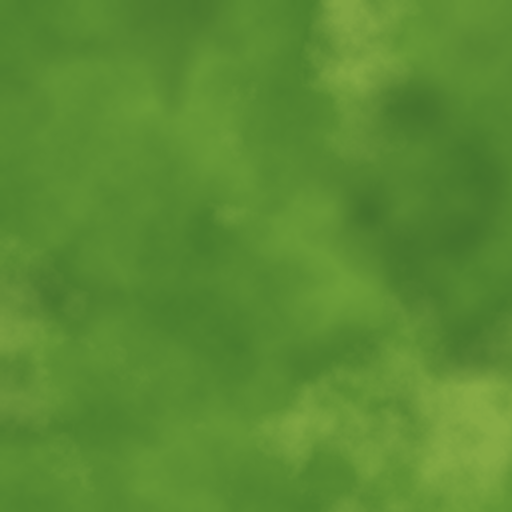
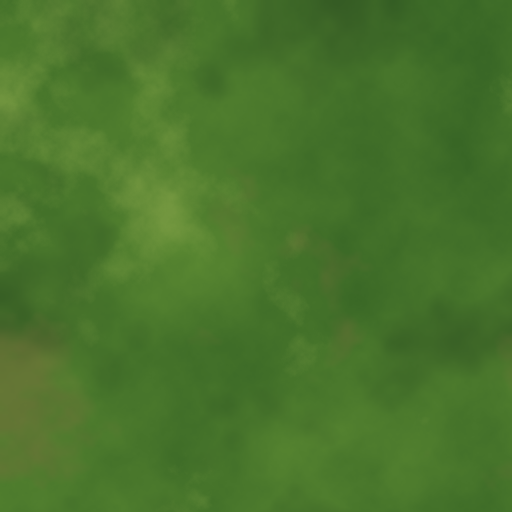
World beauty pass: real 3D food, grass tufts, flowers, clouds, far mountains, palms on fronds, GamePad map, pose cache, dynamic-mesh fix
Claude-Session: https://claude.ai/code/session_01AHpeKa79ECD29RHStwmrRr

diff --git a/src/game/game.c b/src/game/game.c
@@ -23,10 +23,10 @@ static Pad g_prev[KK_PADS];
 static char g_msg[64]; static float g_msg_t; static float g_title_t = 4.0f;
 
 /* textures and meshes */
-static Texture *tx_grass, *tx_dirt, *tx_bark, *tx_leaves, *tx_fern, *tx_berry, *tx_bush, *tx_rock, *tx_water, *tx_mush, *tx_grub, *tx_fish, *tx_spark, *tx_font;
-static Mesh *m_ground, *m_water, *m_bark, *m_leaves, *m_fern, *m_bushes, *m_rock, *m_sky;
-static Mesh *m_dyn;        /* food, sparkles, HUD: refilled per view */
-#define DYN_CAP 24000
+static Texture *tx_grass, *tx_dirt, *tx_bark, *tx_leaves, *tx_fern, *tx_bush, *tx_rock, *tx_water, *tx_spark, *tx_font, *tx_tuft, *tx_flower, *tx_cloud;
+static Mesh *m_ground, *m_water, *m_bark, *m_leaves, *m_fern, *m_bushes, *m_rock, *m_sky, *m_tufts, *m_flowers, *m_clouds, *m_mountains;
+static Mesh *m_dynfood, *m_dynspark, *m_dynhud;   /* refilled per view (each at most twice a frame) */
+#define DYN_CAP 48000
 static Vertex g_dynv[DYN_CAP]; static Batch g_b;
 static uint32_t n_sky;
 
@@ -51,7 +51,7 @@ static void build_ground(void) {
             float rk = clampf((slope - 0.35f) * 4, 0, 1); r = r * (1 - rk) + 0.75f * rk; g = g * (1 - rk) + 0.72f * rk; b = b * (1 - rk) + 0.7f * rk;
             if (world_in_pond(&g_world, x, z)) { r *= 0.8f; g *= 0.85f; b *= 0.8f; }
             c[k][0] = r; c[k][1] = g; c[k][2] = b; }
-        float s = 0.25f; float u0 = i * s, v0 = j * s, u1 = u0 + s, v1 = v0 + s;
+        float s = 0.6f; float u0 = i * s, v0 = j * s, u1 = u0 + s, v1 = v0 + s;
         tv_tri(p[0], p[2], p[1], n[0], n[2], n[1], u0, v0, u0, v1, u1, v0, (c[0][0] + c[2][0] + c[1][0]) / 3, (c[0][1] + c[2][1] + c[1][1]) / 3, (c[0][2] + c[2][2] + c[1][2]) / 3);
         tv_tri(p[1], p[2], p[3], n[1], n[2], n[3], u1, v0, u0, v1, u1, v1, (c[1][0] + c[2][0] + c[3][0]) / 3, (c[1][1] + c[2][1] + c[3][1]) / 3, (c[1][2] + c[2][2] + c[3][2]) / 3); }
     m_ground = tv_mesh();
@@ -101,23 +101,27 @@ static void build_props(void) {
         else if (p->kind == P_PALM) { float h = 9.0f * p->scale; tv_cone(b, v3(p->x + sinf(p->yaw) * 1.5f, y + h, p->z + cosf(p->yaw) * 1.5f), 0.4f * p->scale, 0.25f * p->scale, 7, 2, 0.15f); } }
     m_bark = tv_mesh();
     /* canopies: lumpy leaf balls plus fluff, and the palm crowns */
-    tv_begin(W_MAXPROPS * 260 * 3);
+    tv_begin(W_MAXPROPS * 260 * 3 + W_MAXFOOD * 140 * 3);
     for (int i = 0; i < g_world.nprop; i++) { const Prop *p = &g_world.prop[i]; float y = world_height(&g_world, p->x, p->z);
         if (p->kind == P_TREE) { float h = 7.5f * p->scale; Vec3 c = v3(p->x + sinf(p->yaw) * 0.6f, y + h * 0.95f, p->z + cosf(p->yaw) * 0.6f);
-            float tint = 0.85f + frand01(&s) * 0.3f; tv_ball(c, 3.6f * p->scale, 2.6f * p->scale, 3.6f * p->scale, i * 31 + 5, 0.22f, 2.5f, tint, tint, tint * 0.9f, 0.25f);
-            for (int k = 0; k < 3; k++) { float a = p->yaw + k * 2.1f; Vec3 t = v3(p->x + sinf(a) * 2.2f * p->scale, y + h * 0.95f + 0.4f, p->z + cosf(a) * 2.2f * p->scale); tv_ball(t, 2.0f * p->scale, 1.5f * p->scale, 2.0f * p->scale, i * 31 + k, 0.25f, 1.5f, tint, tint, tint * 0.9f, 0.3f); } }
-        else if (p->kind == P_PALM) { float h = 9.0f * p->scale; Vec3 top = v3(p->x + sinf(p->yaw) * 1.5f, y + h, p->z + cosf(p->yaw) * 1.5f);
+            float tint = 0.85f + frand01(&s) * 0.3f; tv_ball(c, 3.9f * p->scale, 2.9f * p->scale, 3.9f * p->scale, i * 31 + 5, 0.18f, 1.6f, tint, tint, tint * 0.92f, 0.25f);
+            for (int k = 0; k < 3; k++) { float a = p->yaw + k * 2.1f; Vec3 t = v3(p->x + sinf(a) * 2.2f * p->scale, y + h * 0.95f + 0.4f, p->z + cosf(a) * 2.2f * p->scale); tv_ball(t, 2.2f * p->scale, 1.7f * p->scale, 2.2f * p->scale, i * 31 + k, 0.2f, 1.1f, tint, tint, tint * 0.92f, 0.3f); } }
+    }
+    /* the berry bushes: round leafy balls (the berries themselves are drawn live, so they can be eaten) */
+    for (int i = 0; i < g_world.nfood; i++) { const Food *f = &g_world.food[i]; if (f->kind != F_BERRY) continue; tv_ball(v3(f->x, f->y + 0.45f, f->z), 0.8f, 0.6f, 0.8f, i * 13 + 1, 0.2f, 1.0f, 0.95f, 1.0f, 0.9f, 0.15f); }
+    m_leaves = tv_mesh();
+    /* ferns (splayed fronds) and the palm crowns share the frond texture */
+    tv_begin(W_MAXPROPS * 60 + 64);
+    for (int i = 0; i < g_world.nprop; i++) { const Prop *p = &g_world.prop[i]; float y = world_height(&g_world, p->x, p->z);
+        if (p->kind == P_FERN) { for (int k = 0; k < 7; k++) { float a = p->yaw + k * 0.9f; float len = 1.6f * p->scale; Vec3 b = v3(p->x, y - 0.05f, p->z); Vec3 tip = v3(p->x + sinf(a) * len, y + 0.9f * p->scale, p->z + cosf(a) * len); Vec3 ax = v3(cosf(a) * 0.45f * p->scale, 0, -sinf(a) * 0.45f * p->scale); Vec3 n = v3(0, 1.0f, 0), ns = v3(0, 1.3f, 0);
+            tv_tri(v3(b.x - ax.x, b.y, b.z - ax.z), v3(b.x + ax.x, b.y, b.z + ax.z), tip, n, n, ns, 0, 1, 1, 1, 0.5f, 0, 1, 1, 1); tv_tri(v3(b.x + ax.x, b.y, b.z + ax.z), v3(b.x - ax.x, b.y, b.z - ax.z), tip, n, n, ns, 1, 1, 0, 1, 0.5f, 0, 1, 1, 1); } }
+        if (p->kind == P_PALM) { float h = 9.0f * p->scale; Vec3 top = v3(p->x + sinf(p->yaw) * 1.5f, y + h, p->z + cosf(p->yaw) * 1.5f);
             for (int k = 0; k < 7; k++) { float a = p->yaw + k * 0.9f; Vec3 ax = v3(cosf(a) * 1.1f, 0, -sinf(a) * 1.1f); Vec3 tip = v3(top.x + sinf(a) * 4.5f * p->scale, top.y - 1.6f * p->scale, top.z + cosf(a) * 4.5f * p->scale); Vec3 mid = v3(top.x + sinf(a) * 2.2f * p->scale, top.y + 0.6f * p->scale, top.z + cosf(a) * 2.2f * p->scale);
                 Vec3 n = v3(0, 1.0f, 0), ns = v3(0, 1.5f, 0);
                 tv_tri(v3(top.x - ax.x, top.y, top.z - ax.z), v3(top.x + ax.x, top.y, top.z + ax.z), mid, n, n, n, 0, 1, 1, 1, 0.5f, 0.5f, 0.9f, 1, 0.8f);
                 tv_tri(v3(mid.x - ax.x * 0.8f, mid.y, mid.z - ax.z * 0.8f), v3(mid.x + ax.x * 0.8f, mid.y, mid.z + ax.z * 0.8f), tip, n, n, ns, 0, 0.5f, 1, 0.5f, 0.5f, 0, 0.9f, 1, 0.8f);
                 tv_tri(v3(top.x + ax.x, top.y, top.z + ax.z), v3(top.x - ax.x, top.y, top.z - ax.z), mid, n, n, n, 1, 1, 0, 1, 0.5f, 0.5f, 0.9f, 1, 0.8f);
                 tv_tri(v3(mid.x + ax.x * 0.8f, mid.y, mid.z + ax.z * 0.8f), v3(mid.x - ax.x * 0.8f, mid.y, mid.z - ax.z * 0.8f), tip, n, n, ns, 1, 0.5f, 0, 0.5f, 0.5f, 0, 0.9f, 1, 0.8f); } } }
-    m_leaves = tv_mesh();
-    /* ferns and bushes: crossed quads */
-    tv_begin(W_MAXPROPS * 36);
-    for (int i = 0; i < g_world.nprop; i++) { const Prop *p = &g_world.prop[i]; float y = world_height(&g_world, p->x, p->z);
-        if (p->kind == P_FERN) tv_cross(v3(p->x, y - 0.1f, p->z), 2.6f * p->scale, 2.0f * p->scale, p->yaw, 0.25f, 3, 1, 1, 1); }
     m_fern = tv_mesh();
     tv_begin(W_MAXPROPS * 36);
     for (int i = 0; i < g_world.nprop; i++) { const Prop *p = &g_world.prop[i]; float y = world_height(&g_world, p->x, p->z);
@@ -128,6 +132,32 @@ static void build_props(void) {
     for (int i = 0; i < g_world.nprop; i++) { const Prop *p = &g_world.prop[i]; float y = world_height(&g_world, p->x, p->z);
         if (p->kind == P_ROCK) tv_ball(v3(p->x, y - 0.3f * p->scale, p->z), 1.4f * p->scale, 0.9f * p->scale, 1.1f * p->scale, i * 17 + 3, 0.3f, 1.0f, 1, 1, 1, 0); }
     m_rock = tv_mesh();
+    /* grass tufts and flowers: scattered everywhere the ground is not too steep, denser near the start */
+    unsigned ts = 4242; tv_begin(2600 * 12);
+    for (int i = 0; i < 2600; i++) { float x = (frand01(&ts) - 0.5f) * (W_SIZE - 20), z = (frand01(&ts) - 0.5f) * (W_SIZE - 20); if (world_in_pond(&g_world, x, z)) continue; Vec3 n = world_normal(&g_world, x, z); if (n.y < 0.8f) continue;
+        float y = world_height(&g_world, x, z); float sc = 0.7f + frand01(&ts) * 0.8f; float tint = 0.85f + frand01(&ts) * 0.3f; tv_cross(v3(x, y - 0.05f, z), 1.1f * sc, 0.75f * sc, frand01(&ts) * 3.14f, 0.18f, 2, tint, tint, tint); }
+    m_tufts = tv_mesh();
+    tv_begin(700 * 12);
+    for (int i = 0; i < 700; i++) { float x = (frand01(&ts) - 0.5f) * (W_SIZE - 40), z = (frand01(&ts) - 0.5f) * (W_SIZE - 40); if (world_in_pond(&g_world, x, z)) continue; Vec3 n = world_normal(&g_world, x, z); if (n.y < 0.85f) continue;
+        float y = world_height(&g_world, x, z); float sc = 0.6f + frand01(&ts) * 0.5f; tv_cross(v3(x, y - 0.02f, z), 1.2f * sc, 0.7f * sc, frand01(&ts) * 3.14f, 0.1f, 2, 1, 1, 1); }
+    m_flowers = tv_mesh();
+    /* clouds: big soft quads high up, facing down-ish so they read from below and from the air */
+    tv_begin(40 * 12);
+    for (int i = 0; i < 40; i++) { float x = (frand01(&ts) - 0.5f) * 900, z = (frand01(&ts) - 0.5f) * 900, y = 110 + frand01(&ts) * 80, w = 50 + frand01(&ts) * 70, h = w * 0.45f; float a = frand01(&ts) * 3.14f; Vec3 ax = v3(cosf(a) * w / 2, 0, -sinf(a) * w / 2), az = v3(sinf(a) * h / 2, 0, cosf(a) * h / 2); Vec3 nn = v3(0, 1, 0);
+        Vec3 p0 = v3(x - ax.x - az.x, y, z - ax.z - az.z), p1 = v3(x + ax.x - az.x, y, z + ax.z - az.z), p2 = v3(x + ax.x + az.x, y, z + ax.z + az.z), p3 = v3(x - ax.x + az.x, y, z - ax.z + az.z);
+        tv_tri(p0, p1, p2, nn, nn, nn, 0, 1, 1, 1, 1, 0, 1, 1, 1); tv_tri(p0, p2, p3, nn, nn, nn, 0, 1, 1, 0, 0, 0, 1, 1, 1); tv_tri(p0, p2, p1, nn, nn, nn, 0, 1, 1, 0, 1, 1, 1, 1, 1); tv_tri(p0, p3, p2, nn, nn, nn, 0, 1, 0, 0, 1, 0, 1, 1, 1);
+        /* an upright copy so they have some body from the side */
+        Vec3 q0 = v3(x - ax.x, y - h * 0.3f, z - ax.z), q1 = v3(x + ax.x, y - h * 0.3f, z + ax.z), q2 = v3(x + ax.x, y + h * 0.3f, z + ax.z), q3 = v3(x - ax.x, y + h * 0.3f, z - ax.z);
+        tv_tri(q0, q1, q2, nn, nn, nn, 0, 1, 1, 1, 1, 0, 1, 1, 1); tv_tri(q0, q2, q3, nn, nn, nn, 0, 1, 1, 0, 0, 0, 1, 1, 1); tv_tri(q0, q2, q1, nn, nn, nn, 0, 1, 1, 0, 1, 1, 1, 1, 1); tv_tri(q0, q3, q2, nn, nn, nn, 0, 1, 0, 0, 1, 0, 1, 1, 1); }
+    m_clouds = tv_mesh();
+    /* a ring of far mountains, in the fog's colours, so the world never shows an edge */
+    tv_begin(96 * 6); { const int M = 96; float hs[97]; unsigned ms = 99; for (int i = 0; i < M; i++) hs[i] = 60 + frand01(&ms) * 110; hs[M] = hs[0];
+        for (int i = 0; i < M; i++) { float a0 = i * 6.2831853f / M, a1 = (i + 1) * 6.2831853f / M; float R0 = 420 + 40 * sinf(i * 1.3f), R1 = 420 + 40 * sinf((i + 1) * 1.3f);
+            Vec3 b0 = v3(sinf(a0) * R0, -20, cosf(a0) * R0), b1 = v3(sinf(a1) * R1, -20, cosf(a1) * R1), t0 = v3(sinf(a0) * R0, hs[i], cosf(a0) * R0), t1 = v3(sinf(a1) * R1, hs[i + 1], cosf(a1) * R1);
+            float c0 = 0.42f + 0.1f * (hs[i] / 170), c1 = 0.42f + 0.1f * (hs[i + 1] / 170); Vec3 nn = v3(0, 1, 0);
+            tv_tri(b0, t0, b1, nn, nn, nn, 0, 0, 0, 0, 0, 0, c0, c0 + 0.1f, c0 + 0.2f); tmpv[tmpn - 3].r = 0.5f; tmpv[tmpn - 3].g = 0.62f; tmpv[tmpn - 3].b = 0.78f; tmpv[tmpn - 1].r = 0.5f; tmpv[tmpn - 1].g = 0.62f; tmpv[tmpn - 1].b = 0.78f;
+            tv_tri(b1, t0, t1, nn, nn, nn, 0, 0, 0, 0, 0, 0, c1, c1 + 0.1f, c1 + 0.2f); tmpv[tmpn - 3].r = 0.5f; tmpv[tmpn - 3].g = 0.62f; tmpv[tmpn - 3].b = 0.78f; } }
+    m_mountains = tv_mesh();
     /* sky dome: unlit, coloured by height */
     tv_begin(16 * 24 * 6);
     for (int i = 0; i < 8; i++) for (int j = 0; j < 24; j++) {
@@ -146,12 +176,12 @@ int game_init(int gfx_status) {
     dragon_init(&g_dragon, &g_world, 0, 0);
     if (gfx_status != GFX_OK) return 0;
     tx_grass = asset_texture("grass", 1, NULL, NULL); tx_dirt = asset_texture("dirt", 1, NULL, NULL); tx_bark = asset_texture("bark", 1, NULL, NULL);
-    tx_leaves = asset_texture("leaves", 1, NULL, NULL); tx_fern = asset_texture("fern", 0, NULL, NULL); tx_berry = asset_texture("berrybush", 0, NULL, NULL); tx_bush = asset_texture("bush", 0, NULL, NULL);
-    tx_rock = asset_texture("rock", 1, NULL, NULL); tx_water = asset_texture("water", 1, NULL, NULL); tx_mush = asset_texture("mushroom", 0, NULL, NULL);
-    tx_grub = asset_texture("grub", 0, NULL, NULL); tx_fish = asset_texture("fish", 0, NULL, NULL); tx_spark = asset_texture("sparkle", 0, NULL, NULL);
+    tx_leaves = asset_texture("leaves", 1, NULL, NULL); tx_fern = asset_texture("fern", 0, NULL, NULL); tx_bush = asset_texture("bush", 0, NULL, NULL);
+    tx_rock = asset_texture("rock", 1, NULL, NULL); tx_water = asset_texture("water", 1, NULL, NULL); tx_spark = asset_texture("sparkle", 0, NULL, NULL);
+    tx_tuft = asset_texture("grasstuft", 0, NULL, NULL); tx_flower = asset_texture("flowers", 0, NULL, NULL); tx_cloud = asset_texture("cloud", 0, NULL, NULL);
     tx_font = asset_texture("font_hd", 0, NULL, NULL); if (tx_font) g_font_hd = 1;
     build_ground(); build_props();
-    batch_init(&g_b, g_dynv, DYN_CAP); m_dyn = gfx_mesh_dynamic(DYN_CAP);
+    batch_init(&g_b, g_dynv, DYN_CAP); m_dynfood = gfx_mesh_dynamic(DYN_CAP); m_dynspark = gfx_mesh_dynamic(2000); m_dynhud = gfx_mesh_dynamic(36000);
     static const char *names[ST_N] = {"forest_dragonet", "forest_dragon", "forest_beyonder"};
     for (int s = 0; s < ST_N; s++) g_model_ok[s] = anim3d_load(&g_model[s], names[s]);
     gfx_log("Dragons Beyond ready: %d props, %d food, models %d %d %d", g_world.nprop, g_world.nfood, g_model_ok[0], g_model_ok[1], g_model_ok[2]);
@@ -188,23 +218,38 @@ static void camera_update(float dt) {
 
 /* ---------- drawing ---------- */
 static Vec3 sun_dir(void) { return v3_norm(v3(0.45f, 0.8f, 0.35f)); }
-static void draw_food_kind(Vec3 eye, int kind, Texture *t) {
+/* small solid shapes for the food, lit by their normals, flat-coloured (they use the white block in the font texture) */
+static void bq_push(Vec3 p, Vec3 n, float r, float g, float b) { if (g_b.n < g_b.cap) { Vertex q = {p.x, p.y, p.z, n.x, n.y, n.z, WHITE_U, WHITE_V, r, g, b, 1}; g_b.v[g_b.n++] = q; } }
+static void batch_ball(Vec3 c, float rx, float ry, float rz, int la, int lo, float r, float g, float b, float ybias) {
+    for (int i = 0; i < la; i++) for (int j = 0; j < lo; j++) {
+        float t0 = 3.14159265f * i / la, t1 = 3.14159265f * (i + 1) / la, p0 = 6.2831853f * j / lo, p1 = 6.2831853f * (j + 1) / lo;
+        Vec3 n00 = v3(sinf(t0) * sinf(p0), cosf(t0), sinf(t0) * cosf(p0)), n01 = v3(sinf(t0) * sinf(p1), cosf(t0), sinf(t0) * cosf(p1)), n10 = v3(sinf(t1) * sinf(p0), cosf(t1), sinf(t1) * cosf(p0)), n11 = v3(sinf(t1) * sinf(p1), cosf(t1), sinf(t1) * cosf(p1));
+        Vec3 q00 = v3(c.x + n00.x * rx, c.y + n00.y * ry * (n00.y > 0 ? 1 : ybias), c.z + n00.z * rz), q01 = v3(c.x + n01.x * rx, c.y + n01.y * ry * (n01.y > 0 ? 1 : ybias), c.z + n01.z * rz);
+        Vec3 q10 = v3(c.x + n10.x * rx, c.y + n10.y * ry * (n10.y > 0 ? 1 : ybias), c.z + n10.z * rz), q11 = v3(c.x + n11.x * rx, c.y + n11.y * ry * (n11.y > 0 ? 1 : ybias), c.z + n11.z * rz);
+        if (i > 0) { bq_push(q00, n00, r, g, b); bq_push(q10, n10, r, g, b); bq_push(q01, n01, r, g, b); }
+        if (i < la - 1) { bq_push(q01, n01, r, g, b); bq_push(q10, n10, r, g, b); bq_push(q11, n11, r, g, b); } } }
+static void batch_cyl(Vec3 base, Vec3 top, float r0, float r1, int seg, float r, float g, float b) {
+    for (int i = 0; i < seg; i++) { float a0 = i * 6.2831853f / seg, a1 = (i + 1) * 6.2831853f / seg; Vec3 n0 = v3(sinf(a0), 0, cosf(a0)), n1 = v3(sinf(a1), 0, cosf(a1));
+        Vec3 b0 = v3(base.x + n0.x * r0, base.y, base.z + n0.z * r0), b1 = v3(base.x + n1.x * r0, base.y, base.z + n1.z * r0), t0 = v3(top.x + n0.x * r1, top.y, top.z + n0.z * r1), t1 = v3(top.x + n1.x * r1, top.y, top.z + n1.z * r1);
+        bq_push(b0, n0, r, g, b); bq_push(t0, n0, r, g, b); bq_push(b1, n1, r, g, b); bq_push(b1, n1, r, g, b); bq_push(t0, n0, r, g, b); bq_push(t1, n1, r, g, b); } }
+static void draw_food3d(Vec3 eye) {
     batch_clear(&g_b);
-    for (int i = 0; i < g_world.nfood; i++) { const Food *f = &g_world.food[i]; if (f->kind != kind) continue;
-        float dx = f->x - eye.x, dz = f->z - eye.z; if (dx * dx + dz * dz > 150 * 150) continue;
-        float ang = atan2f(dx, dz); Vec3 ax = v3(cosf(ang), 0, -sinf(ang)); Vec3 n = v3(0, 1, 0);
-        if (kind == F_BERRY) { if (!f->alive && f->regrow > 20) continue; float s = 1.3f; batch_quad(&g_b, v3(f->x, f->y + s * 0.5f - 0.08f, f->z), v3(ax.x * s * 0.6f, 0, ax.z * s * 0.6f), v3(0, s * 0.5f, 0), n, 0, 0, 1, 1, 1, 1, 1, 1); }
-        else if (kind == F_MUSHROOM) { if (!f->alive) continue; float s = 0.7f; batch_quad(&g_b, v3(f->x, f->y + s * 0.5f, f->z), v3(ax.x * s * 0.5f, 0, ax.z * s * 0.5f), v3(0, s * 0.5f, 0), n, 0, 0, 1, 1, 1, 1, 1, 1); }
-        else if (kind == F_GRUB) { if (!f->alive) continue; float s = 0.6f; Vec3 fw = v3(sinf(f->yaw), 0, cosf(f->yaw)), rt = v3(cosf(f->yaw), 0, -sinf(f->yaw)); float wig = sinf(f->phase * 12) * 0.06f;
-            batch_quad(&g_b, v3(f->x, f->y + 0.1f, f->z), v3(rt.x * s * 0.35f + fw.x * wig, 0, rt.z * s * 0.35f + fw.z * wig), v3(fw.x * s * 0.5f, 0.03f, fw.z * s * 0.5f), n, 0, 0, 1, 1, 1, 1, 1, 1); }
-        else { if (!f->alive) continue; float s = 0.9f; Vec3 fw = v3(sinf(f->yaw), 0, cosf(f->yaw)); batch_quad(&g_b, v3(f->x, f->y, f->z), v3(fw.x * s * 0.5f, 0, fw.z * s * 0.5f), v3(0, s * 0.3f, 0), n, 0, 0, 1, 1, 1, 1, 1, 0.9f); } }
-    if (!g_b.n) return; gfx_mesh_update(m_dyn, g_b.v, g_b.n); Mat4 id = m4_identity(); gfx_bind(t); gfx_state(ST_CUTOUT); gfx_draw_ex(m_dyn, &id, 1, 1, 1, 1, 0.05f, 0, 0, 0); }
-static void draw_berry_bushes_eaten(Vec3 eye) {   /* the green bush stays when the berries are gone */
-    batch_clear(&g_b); Vec3 n = v3(0, 1, 0);
-    for (int i = 0; i < g_world.nfood; i++) { const Food *f = &g_world.food[i]; if (f->kind != F_BERRY || f->alive) continue;
-        float dx = f->x - eye.x, dz = f->z - eye.z; if (dx * dx + dz * dz > 150 * 150) continue; float ang = atan2f(dx, dz); Vec3 ax = v3(cosf(ang), 0, -sinf(ang)); float s = 1.3f;
-        batch_quad(&g_b, v3(f->x, f->y + s * 0.5f - 0.08f, f->z), v3(ax.x * s * 0.6f, 0, ax.z * s * 0.6f), v3(0, s * 0.5f, 0), n, 0, 0, 1, 1, 1, 1, 1, 1); }
-    if (!g_b.n) return; gfx_mesh_update(m_dyn, g_b.v, g_b.n); Mat4 id = m4_identity(); gfx_bind(tx_bush); gfx_state(ST_CUTOUT); gfx_draw_ex(m_dyn, &id, 1, 1, 1, 1, 0.05f, 0, 0, 0); }
+    for (int i = 0; i < g_world.nfood; i++) { const Food *f = &g_world.food[i]; if (!f->alive) continue;
+        float dx = f->x - eye.x, dz = f->z - eye.z; float d2 = dx * dx + dz * dz; if (d2 > 120 * 120) continue; int lod = d2 > 35 * 35;
+        if (f->kind == F_BERRY) {   /* red berries sitting on the (static) bush */
+            unsigned s = (unsigned)i * 97 + 13; for (int k = 0; k < 6; k++) { float a = frand01(&s) * 6.28f, el = 0.3f + frand01(&s) * 1.1f, rr = 0.72f; Vec3 c = v3(f->x + cosf(el) * sinf(a) * rr, f->y + 0.55f + sinf(el) * 0.6f, f->z + cosf(el) * cosf(a) * rr);
+                batch_ball(c, 0.1f, 0.1f, 0.1f, lod ? 2 : 3, lod ? 4 : 5, 0.9f, 0.12f, 0.2f, 1); } }
+        else if (f->kind == F_MUSHROOM) { float h = 0.42f + 0.05f * sinf(f->phase); batch_cyl(v3(f->x, f->y - 0.05f, f->z), v3(f->x, f->y + h, f->z), 0.09f, 0.08f, 6, 0.93f, 0.88f, 0.75f);
+            batch_ball(v3(f->x, f->y + h, f->z), 0.32f, 0.2f, 0.32f, 3, lod ? 6 : 8, 0.85f, 0.2f, 0.18f, 0.25f);
+            if (!lod) { unsigned s = (unsigned)i * 31; for (int k = 0; k < 4; k++) { float a = frand01(&s) * 6.28f, rr = 0.1f + frand01(&s) * 0.15f; batch_ball(v3(f->x + sinf(a) * rr, f->y + h + 0.2f * sqrtf(fmaxf(0, 1 - (rr / 0.32f) * (rr / 0.32f))) , f->z + cosf(a) * rr), 0.045f, 0.03f, 0.045f, 2, 4, 1, 0.98f, 0.9f, 1); } } }
+        else if (f->kind == F_GRUB) { Vec3 fw = v3(sinf(f->yaw), 0, cosf(f->yaw)); float wig = sinf(f->phase * 10) * 0.05f; Vec3 rt = v3(fw.z, 0, -fw.x);
+            for (int k = 0; k < 3; k++) { float o = 0.14f - k * 0.14f; float w = sinf(f->phase * 10 + k * 1.5f) * 0.04f; batch_ball(v3(f->x + fw.x * o + rt.x * (wig + w), f->y + 0.11f, f->z + fw.z * o + rt.z * (wig + w)), 0.13f, 0.11f, 0.15f, 3, lod ? 5 : 6, 0.9f, 0.78f, 0.45f, 1); }
+            batch_ball(v3(f->x + fw.x * 0.3f + rt.x * wig, f->y + 0.12f, f->z + fw.z * 0.3f + rt.z * wig), 0.1f, 0.1f, 0.1f, 3, 5, 0.45f, 0.28f, 0.15f, 1); }
+        else { Vec3 fw = v3(sinf(f->yaw), 0, cosf(f->yaw)); Vec3 rt = v3(fw.z, 0, -fw.x); float sw = sinf(f->phase * 6) * 0.08f;
+            batch_ball(v3(f->x, f->y, f->z), 0.1f, 0.14f, 0.1f, 3, 6, 0.4f, 0.6f, 0.9f, 1); batch_ball(v3(f->x + fw.x * 0.18f, f->y, f->z + fw.z * 0.18f), 0.08f, 0.1f, 0.08f, 2, 5, 0.4f, 0.6f, 0.9f, 1); batch_ball(v3(f->x - fw.x * 0.2f + rt.x * sw, f->y, f->z - fw.z * 0.2f + rt.z * sw), 0.06f, 0.1f, 0.06f, 2, 4, 0.3f, 0.5f, 0.8f, 1);
+            Vec3 t0 = v3(f->x - fw.x * 0.26f + rt.x * sw, f->y, f->z - fw.z * 0.26f + rt.z * sw), t1 = v3(f->x - fw.x * 0.42f + rt.x * sw * 2, f->y + 0.12f, f->z - fw.z * 0.42f + rt.z * sw * 2), t2 = v3(f->x - fw.x * 0.42f + rt.x * sw * 2, f->y - 0.12f, f->z - fw.z * 0.42f + rt.z * sw * 2);
+            bq_push(t0, rt, 0.3f, 0.5f, 0.8f); bq_push(t1, rt, 0.3f, 0.5f, 0.8f); bq_push(t2, rt, 0.3f, 0.5f, 0.8f); bq_push(t0, v3(-rt.x, 0, -rt.z), 0.3f, 0.5f, 0.8f); bq_push(t2, v3(-rt.x, 0, -rt.z), 0.3f, 0.5f, 0.8f); bq_push(t1, v3(-rt.x, 0, -rt.z), 0.3f, 0.5f, 0.8f); } }
+    if (!g_b.n) return; gfx_mesh_update(m_dynfood, g_b.v, g_b.n); Mat4 id = m4_identity(); gfx_bind(tx_font); gfx_state(ST_SOLID); gfx_draw_ex(m_dynfood, &id, 1, 1, 1, 1, 0.3f, 0, 0, 0); }
 
 static void draw_dragon(const Dragon *d) {
     int st = d->stage; float sc = dragon_scale(st);
@@ -214,7 +259,7 @@ static void draw_dragon(const Dragon *d) {
     Mat4 base = dragon_matrix(d, sc); int clip = anim3d_clip(m, dragon_anim_name(d->anim)); if (clip < 0) clip = 0;
     gfx_state(ST_SOLID);
     float glow = d->evolve_t > 0 ? 0.5f + 0.5f * sinf(g_time * 20) : 0;
-    anim3d_draw(m, clip, d->anim_t, &base, 1 + glow, 1 + glow, 1 + 0.6f * glow, 1); gfx_bind(NULL); }
+    anim3d_draw(m, clip, d->anim_t, &base, 1.12f + glow, 1.12f + glow, 1.1f + 0.6f * glow, 1); gfx_bind(NULL); }
 
 static void draw_sparkles(const Dragon *d, Vec3 eye) {
     if (d->evolve_t <= 0) return; batch_clear(&g_b); unsigned s = 9; float L = dragon_length(d->stage); float t = 2.0f - d->evolve_t;
@@ -223,17 +268,18 @@ static void draw_sparkles(const Dragon *d, Vec3 eye) {
         float rise = fmodf(t * (0.8f + frand01(&s)) + ph, 2.0f); float sz = 0.08f * L * (1 - rise / 2) + 0.05f;
         Vec3 c = v3(d->x + cosf(a + t) * r, d->y + h + rise * L * 0.6f, d->z + sinf(a + t) * r);
         batch_quad(&g_b, c, v3(right.x * sz, 0, right.z * sz), v3(up.x * sz, up.y * sz, up.z * sz), v3(0, 1, 0), 0, 0, 1, 1, 1, 1, 0.7f, 1 - rise / 2); }
-    gfx_mesh_update(m_dyn, g_b.v, g_b.n); Mat4 id = m4_identity(); gfx_bind(tx_spark); gfx_state(ST_DEPTH | ST_BLEND | ST_ADD); gfx_draw_ex(m_dyn, &id, 1, 1, 1, 1, 0, 1, 0, 0); }
+    gfx_mesh_update(m_dynspark, g_b.v, g_b.n); Mat4 id = m4_identity(); gfx_bind(tx_spark); gfx_state(ST_DEPTH | ST_BLEND | ST_ADD); gfx_draw_ex(m_dynspark, &id, 1, 1, 1, 1, 0, 1, 0, 0); }
 
 static void draw_scene(int drc) {
     float aspect = gfx_aspect(drc); Vec3 eye = g_eye, at = g_at;
     Mat4 proj = m4_perspective(g_cam_mode == 2 ? 1.25f : 1.05f, aspect, 0.2f, 1500.0f), view = m4_look_at(eye, at, v3(0, 1, 0)); Mat4 vp = m4_mul(proj, view);
     Vec3 L = sun_dir();
     gfx_light(v3(1.0f, 0.96f, 0.85f), v3(0.55f, 0.65f, 0.8f), v3(0.35f, 0.4f, 0.2f), eye);
-    gfx_shadow_use(1); gfx_camera(&vp, L, 0.42f, 0.78f, 0.86f, 0.95f, 90, 420); gfx_shadow_use(0);
+    gfx_shadow_use(1); gfx_camera(&vp, L, 0.45f, 0.74f, 0.82f, 0.92f, 120, 480); gfx_shadow_use(0);
     Mat4 id = m4_identity();
     /* sky, around the camera, no depth */
     Mat4 skym = m4_translate(eye.x, eye.y - 60, eye.z); gfx_state(0); gfx_bind(NULL); gfx_draw_ex(m_sky, &skym, 1, 1, 1, 1, 0, 1, 0, 0);
+    if (m_mountains) gfx_draw_ex(m_mountains, &id, 1, 1, 1, 1, 0, 1, 0, 0);
     gfx_clear_depth(drc);
     gfx_state(ST_SOLID);
     gfx_bind(tx_grass); gfx_bump(2); gfx_draw(m_ground, &id, 1, 1, 1, 1); gfx_bump(0);
@@ -243,16 +289,18 @@ static void draw_scene(int drc) {
     gfx_bind(tx_leaves); if (m_leaves) gfx_draw(m_leaves, &id, 1, 1, 1, 1);
     gfx_bind(tx_fern); if (m_fern) gfx_draw(m_fern, &id, 1, 1, 1, 1);
     gfx_bind(tx_bush); if (m_bushes) gfx_draw(m_bushes, &id, 1, 1, 1, 1);
-    draw_food_kind(eye, F_BERRY, tx_berry); draw_berry_bushes_eaten(eye); draw_food_kind(eye, F_MUSHROOM, tx_mush); draw_food_kind(eye, F_GRUB, tx_grub);
+    gfx_bind(tx_tuft); if (m_tufts) gfx_draw(m_tufts, &id, 1, 1, 1, 1);
+    gfx_bind(tx_flower); if (m_flowers) gfx_draw(m_flowers, &id, 1, 1, 1, 1);
+    draw_food3d(eye);
     if (g_cam_mode != 2) draw_dragon(&g_dragon);
     gfx_state(ST_TRANSPARENT); gfx_bind(tx_water); gfx_draw_ex(m_water, &id, 1, 1, 1, 0.8f, 0.9f, 0, g_time * 0.02f, g_time * 0.013f);
-    draw_food_kind(eye, F_FISH, tx_fish);
     draw_sparkles(&g_dragon, eye);
+    { Mat4 cm = m4_translate(fmodf(g_time * 1.5f, 900.0f) - 450.0f, 0, 0); gfx_state(ST_DEPTH | ST_BLEND); gfx_bind(tx_cloud); if (m_clouds) { gfx_draw_ex(m_clouds, &cm, 1, 1, 1, 0.9f, 0, 1, 0, 0); Mat4 cm2 = m4_translate(cm.m[12] + 900.0f, 0, 0); gfx_draw_ex(m_clouds, &cm2, 1, 1, 1, 0.9f, 0, 1, 0, 0); } }
     gfx_bind(NULL); }
 
 static void shadow_pass(void) {
     const Dragon *d = &g_dragon; Vec3 L = sun_dir();
-    Vec3 c = v3(d->x + sinf(g_cam_yaw) * 15, d->y, d->z + cosf(g_cam_yaw) * 15); const float half = 55.0f, dep = 260.0f;
+    Vec3 c = v3(d->x + sinf(g_cam_yaw) * 25, d->y, d->z + cosf(g_cam_yaw) * 25); const float half = 85.0f, dep = 300.0f;
     c.x = floorf(c.x / (2 * half / 1024)) * (2 * half / 1024); c.z = floorf(c.z / (2 * half / 1024)) * (2 * half / 1024);
     Mat4 view = m4_look_at(v3(c.x + L.x * dep * 0.5f, c.y + L.y * dep * 0.5f, c.z + L.z * dep * 0.5f), c, v3(0, 1, 0));
     Mat4 proj = m4_identity(); proj.m[0] = 1.0f / half; proj.m[5] = 1.0f / half; proj.m[10] = -2.0f / dep; proj.m[14] = -1.0f;
@@ -281,9 +329,9 @@ static void draw_hud(int drc) {
     if (near >= 0 && d->mode != DM_AIR && d->act_t <= 0) text_c(food_is_meat(g_world.food[near].kind) ? "X : EAT (MEAT, GROWS FAST)" : "X : EAT", 600, 30, 1, 1, 0.7f, 0.9f);
     if (g_msg_t > 0) text_c(g_msg, 640, 28, 1, 1, 1, clampf(g_msg_t, 0, 1));
     if (g_title_t > 0) { float a = clampf(g_title_t, 0, 1); text_c("DRAGONS BEYOND", 250, 72, 0.6f, 1, 0.5f, a); text_c("EVERLEAF WILDS", 330, 40, 0.9f, 1, 0.9f, a); }
-    static const char *cams[3] = {"RIDER VIEW", "OVERHEAD VIEW", "DRAGON'S EYES"}; batch_text(&g_b, cams[g_cam_mode], 1000, 36, 20, 1, 1, 1, 0.6f);
+    static const char *cams[3] = {"RIDER VIEW", "OVERHEAD VIEW", "DRAGON EYES"}; batch_text(&g_b, cams[g_cam_mode], 1240 - text_width(cams[g_cam_mode], 20), 36, 20, 1, 1, 1, 0.6f);
     batch_text(&g_b, "D-PAD UP : VIEW   A : JUMP/FLY   ZR : RUN   B : TAIL   Y : ROAR", 300, 690, 18, 1, 1, 1, 0.5f);
-    if (!g_b.n) return; gfx_camera_2d(); gfx_state(ST_HUD); gfx_bind(tx_font); gfx_mesh_update(m_dyn, g_b.v, g_b.n); Mat4 id = m4_identity(); gfx_draw_ex(m_dyn, &id, 1, 1, 1, 1, 0, 1, 0, 0); gfx_bind(NULL); (void)drc; }
+    if (!g_b.n) return; gfx_camera_2d(); gfx_state(ST_HUD); gfx_bind(tx_font); gfx_mesh_update(m_dynhud, g_b.v, g_b.n); Mat4 id = m4_identity(); gfx_draw_ex(m_dynhud, &id, 1, 1, 1, 1, 0, 1, 0, 0); gfx_bind(NULL); (void)drc; }
 
 
 #ifdef DB_TOUR
@@ -303,6 +351,42 @@ static void tour_input(Pad *p, float t) {
     if (fmodf(t, 30.0f) < 0.05f && t > 25 && d->mode != DM_AIR) p->y = 1;   /* a roar now and then */
 }
 #endif
+
+
+/* ---------- the GamePad: a map of Everleaf Wilds ---------- */
+static void map_tri2d(float x0, float y0, float x1, float y1, float x2, float y2, float r, float g, float b, float a) {
+    if (g_b.n + 3 > g_b.cap) return; Vec3 p0 = scr(x0, y0), p1 = scr(x1, y1), p2 = scr(x2, y2);
+    Vertex q0 = {p0.x, p0.y, 0, 0, 0, 1, WHITE_U, WHITE_V, r, g, b, a}, q1 = {p1.x, p1.y, 0, 0, 0, 1, WHITE_U, WHITE_V, r, g, b, a}, q2 = {p2.x, p2.y, 0, 0, 0, 1, WHITE_U, WHITE_V, r, g, b, a};
+    g_b.v[g_b.n++] = q0; g_b.v[g_b.n++] = q1; g_b.v[g_b.n++] = q2; }
+static void map_disc(float cx, float cy, float rad, int seg, float r, float g, float b, float a) { for (int i = 0; i < seg; i++) { float a0 = i * 6.2831853f / seg, a1 = (i + 1) * 6.2831853f / seg; map_tri2d(cx, cy, cx + cosf(a1) * rad, cy + sinf(a1) * rad, cx + cosf(a0) * rad, cy + sinf(a0) * rad, r, g, b, a); } }
+static void draw_map(void) {
+    const Dragon *d = &g_dragon; const float S = 2.6f, CX = 640, CY = 360;   /* pixels per metre; world x -> right, world z -> up the screen */
+#define MX(x) (CX + (x) * S)
+#define MY(z) (CY - (z) * S)
+    batch_clear(&g_b);
+    batch_rect(&g_b, 0, 0, 1280, 720, 0.08f, 0.14f, 0.08f, 1);
+    batch_rect(&g_b, MX(-W_SIZE / 2), MY(W_SIZE / 2), W_SIZE * S, W_SIZE * S, 0.3f, 0.55f, 0.25f, 1);
+    /* hills: darker where the ground is high */
+    for (int j = 0; j < W_GRID - 1; j += 2) for (int i = 0; i < W_GRID - 1; i += 2) { float h = g_world.h[j][i]; if (h < 6) continue; float t = clampf((h - 6) / 20.0f, 0, 1); float x = -W_SIZE / 2 + W_SIZE * i / (W_GRID - 1), z = -W_SIZE / 2 + W_SIZE * j / (W_GRID - 1); batch_rect(&g_b, MX(x), MY(z) - 2 * S, 2 * S * W_SIZE / (W_GRID - 1) / 2.5f + 1, 2 * S * W_SIZE / (W_GRID - 1) / 2.5f + 1, 0.3f + 0.3f * t, 0.45f + 0.1f * t, 0.2f + 0.1f * t, 0.9f); }
+    map_disc(MX(g_world.pond_x), MY(g_world.pond_z), g_world.pond_r * 1.25f * S, 24, 0.25f, 0.55f, 0.85f, 1);
+    for (int i = 0; i < g_world.nprop; i++) { const Prop *p = &g_world.prop[i]; float r = p->kind == P_TREE || p->kind == P_PALM ? 4.5f : 2.5f; float cr = p->kind == P_ROCK ? 0.5f : 0.12f, cg = p->kind == P_ROCK ? 0.5f : 0.35f, cb = p->kind == P_ROCK ? 0.48f : 0.1f; map_disc(MX(p->x), MY(p->z), r, 6, cr, cg, cb, 1); }
+    for (int i = 0; i < g_world.nfood; i++) { const Food *f = &g_world.food[i]; if (!f->alive) continue; float cr = 1, cg = 1, cb = 1;
+        if (f->kind == F_BERRY) { cr = 0.95f; cg = 0.15f; cb = 0.25f; } else if (f->kind == F_MUSHROOM) { cr = 1; cg = 0.95f; cb = 0.8f; } else if (f->kind == F_GRUB) { cr = 1; cg = 0.85f; cb = 0.3f; } else { cr = 0.5f; cg = 0.8f; cb = 1; }
+        map_disc(MX(f->x), MY(f->z), 3, 6, cr, cg, cb, 1); }
+    /* the dragon: a bright arrow pointing where it faces, with a pulse ring */
+    float ax = MX(d->x), ay = MY(d->z), sy = sinf(d->yaw), cy = cosf(d->yaw); float pulse = 10 + 4 * sinf(g_time * 4);
+    map_disc(ax, ay, pulse, 16, 0.7f, 1, 0.5f, 0.35f);
+    map_tri2d(ax + sy * 14, ay - cy * 14, ax - cy * 8 - sy * 8, ay - sy * 8 + cy * 8, ax + cy * 8 - sy * 8, ay + sy * 8 + cy * 8, 0.85f, 1, 0.6f, 1);
+    /* words */
+    batch_text(&g_b, "EVERLEAF WILDS", 40, 30, 34, 0.9f, 1, 0.8f, 1);
+    char line[64]; snprintf(line, sizeof line, "%s", dragon_stage_name(d->stage)); batch_text(&g_b, line, 40, 80, 26, 1, 1, 1, 0.9f);
+    float need = dragon_need(d->stage); if (need < 1e8f) { snprintf(line, sizeof line, "GROW %d/%d", (int)d->growth, (int)need); batch_text(&g_b, line, 40, 112, 22, 0.8f, 1, 0.7f, 0.9f); }
+    batch_text(&g_b, "RED: BERRIES  WHITE: MUSHROOMS", 40, 640, 18, 1, 1, 1, 0.7f); batch_text(&g_b, "YELLOW: GRUBS  BLUE: FISH (MEAT GROWS FAST)", 40, 668, 18, 1, 1, 1, 0.7f);
+    batch_text(&g_b, "D-PAD UP: CHANGE VIEW", 900, 668, 18, 1, 1, 1, 0.7f);
+    gfx_camera_2d(); gfx_state(ST_HUD); gfx_bind(tx_font); gfx_mesh_update(m_dynhud, g_b.v, g_b.n); Mat4 id = m4_identity(); gfx_draw_ex(m_dynhud, &id, 1, 1, 1, 1, 0, 1, 0, 0); gfx_bind(NULL);
+#undef MX
+#undef MY
+}
 
 /* ---------- the frame ---------- */
 void game_frame(const Pad *pads, int npads, float dt) {
@@ -328,9 +412,6 @@ void game_frame(const Pad *pads, int npads, float dt) {
     music_update(2);
     gfx_frame_begin();
     shadow_pass();
-    for (int drc = 0; drc < 2; drc++) {
-        gfx_view_begin(drc, 0.55f, 0.75f, 0.95f);
-        draw_scene(drc);
-        draw_hud(drc);
-        gfx_view_end(drc); }
+    gfx_view_begin(0, 0.55f, 0.75f, 0.95f); draw_scene(0); draw_hud(0); gfx_view_end(0);   /* the TV: the game */
+    gfx_view_begin(1, 0.08f, 0.14f, 0.08f); draw_map(); gfx_view_end(1);                   /* the GamePad: the map */
     gfx_frame_end(); }

diff --git a/tools/make_textures.py b/tools/make_textures.py
@@ -89,3 +89,45 @@ save('sparkle', np.dstack([np.full((128, 128), 255), np.full((128, 128), 250), n
 # icon 128x128
 ic = Image.open(os.path.join(os.path.dirname(__file__), '..', 'concept', 'forest_dragonet_side.png')).convert('RGB').resize((128, 128), Image.LANCZOS)
 ic.save(os.path.join(OUT, '..', 'icon.png')); print('icon')
+
+# ---- second pass: richer grass, grass tufts, flowers, clouds, calmer leaves
+N = 512
+g1 = noise(N, 7, 21); g2 = noise(N, 4, 22); g3 = noise(N, 8, 23)
+g = mix((46, 92, 34), (96, 142, 52), g1); g = mix(g, (128, 160, 70), np.clip((g3 - 0.58) * 5, 0, 1) * 0.7); g = mix(g, (36, 70, 30), np.clip((0.42 - g2) * 3, 0, 1) * 0.6)
+g = mix(g, (120, 110, 60), np.clip((noise(N, 5, 24) - 0.66) * 6, 0, 1) * 0.5)   # a few dry patches
+save('grass', np.dstack([g, np.full((N, N), 255)]))
+# grass tuft (cutout): a fan of blades from the bottom centre
+im = Image.new('RGBA', (N, N), (0, 0, 0, 0)); dr = ImageDraw.Draw(im); r2 = np.random.default_rng(5)
+for _ in range(70):
+    x0 = N / 2 + (r2.random() - 0.5) * 120; h = 180 + r2.random() * 280; bend = (r2.random() - 0.5) * 260; w = 10 + r2.random() * 14
+    col = (int(60 + r2.random() * 60), int(130 + r2.random() * 90), int(40 + r2.random() * 40), 255)
+    pts = [(x0 - w / 2, N), (x0 + w / 2, N), (x0 + bend * 0.5 + 2, N - h * 0.6), (x0 + bend, N - h), (x0 + bend * 0.5 - 2, N - h * 0.6)]
+    dr.polygon(pts, fill=col)
+save('grasstuft', np.asarray(im).astype(float))
+# flowers (cutout): small clusters of 5-petal flowers in a few colours, on thin stems
+im = Image.new('RGBA', (N, N), (0, 0, 0, 0)); dr = ImageDraw.Draw(im); r2 = np.random.default_rng(6)
+cols = [(255, 230, 80), (255, 120, 150), (250, 250, 250), (170, 130, 255), (255, 150, 60)]
+for _ in range(16):
+    cx = N / 2 + (r2.random() - 0.5) * 300; cy = N * 0.25 + r2.random() * N * 0.35; rad = 18 + r2.random() * 14; col = cols[int(r2.random() * len(cols))]
+    dr.line((cx, N, cx, cy), fill=(70, 120, 50, 255), width=5)
+    for k in range(5):
+        a = k * 2 * np.pi / 5 + r2.random() * 0.3; dr.ellipse((cx + np.cos(a) * rad - rad * 0.6, cy + np.sin(a) * rad - rad * 0.6, cx + np.cos(a) * rad + rad * 0.6, cy + np.sin(a) * rad + rad * 0.6), fill=col + (255,))
+    dr.ellipse((cx - rad * 0.45, cy - rad * 0.45, cx + rad * 0.45, cy + rad * 0.45), fill=(255, 210, 60, 255))
+save('flowers', np.asarray(im).astype(float))
+# cloud (cutout, soft): a puffy cumulus
+yy, xx = np.mgrid[0:N, 0:N]; cl = np.zeros((N, N)); r2 = np.random.default_rng(7)
+for _ in range(14):
+    cx, cy, rr = N * (0.25 + r2.random() * 0.5), N * (0.45 + r2.random() * 0.2), N * (0.1 + r2.random() * 0.12)
+    cl = np.maximum(cl, np.clip(1 - np.sqrt((xx - cx) ** 2 + ((yy - cy) * 1.4) ** 2) / rr, 0, 1))
+cl = np.clip(cl * 1.6 - 0.2, 0, 1); shade = 0.82 + 0.18 * np.clip((N * 0.6 - yy) / (N * 0.3), 0, 1)
+save('cloud', np.dstack([255 * shade, 255 * shade, 255 * np.minimum(1, shade + 0.03), cl * 255]))
+# calmer leaf texture: softer, rounder leaves, less contrast
+im = Image.new('RGBA', (N, N), (0, 0, 0, 0)); r2 = np.random.default_rng(8)
+for _ in range(220):
+    cx, cy = r2.random(2) * N; a = r2.random() * 360; L = 46 + r2.random() * 40; W = L * 0.62
+    base = 95 + r2.random() * 40; col = (int(base * 0.45), int(base * 1.25), int(base * 0.4), 255)
+    leaf = Image.new('RGBA', (int(L * 2), int(L * 2)), (0, 0, 0, 0)); ld = ImageDraw.Draw(leaf)
+    ld.ellipse((L - W / 2, L - L / 2, L + W / 2, L + L / 2), fill=col)
+    leaf = leaf.rotate(a, resample=Image.BICUBIC); im.alpha_composite(leaf, (int(cx - L), int(cy - L)))
+arr = np.asarray(im).astype(float); arr[..., :3] *= (0.8 + 0.4 * noise(N, 3, 9))[..., None]
+save('leaves', arr)

diff --git a/src/game/anim3d.c b/src/game/anim3d.c
@@ -33,6 +33,8 @@ void anim3d_draw(Anim3D *a, int c, float t, const Mat4 *base, float r, float g, 
     float fpos = cl->dur > 0 ? t / cl->dur * (cl->loop ? cl->nf : cl->nf - 1) : 0; int i0, i1; float w;
     if (cl->loop) { fpos = fmodf(fpos, (float)cl->nf); if (fpos < 0) fpos += cl->nf; i0 = (int)fpos; i1 = (i0 + 1) % cl->nf; w = fpos - i0; }
     else { if (fpos < 0) fpos = 0; if (fpos > cl->nf - 1) fpos = (float)(cl->nf - 1); i0 = (int)fpos; i1 = i0 + 1 < cl->nf ? i0 + 1 : i0; w = fpos - i0; }
+    if (a->filled && a->last_c == c && a->last_t == t) { gfx_bind(a->tex); gfx_draw_ex(a->mesh, base, r, g, b, alpha, 0.25f, 0, 0, 0); return; }   /* same pose as the last call this frame: reuse it */
+    a->filled = 1; a->last_c = c; a->last_t = t;
     const uint8_t *f0 = cl->data + (size_t)i0 * a->nv * 10, *f1 = cl->data + (size_t)i1 * a->nv * 10;
     for (int k = 0; k < a->nt * 3; k++) { uint32_t v = a->idx[k]; const uint8_t *p0 = f0 + v * 10, *p1 = f1 + v * 10; Vertex *o = &a->vb[k];
         o->px = (rd16(p0) + (rd16(p1) - rd16(p0)) * w) * (1.0f / 4000); o->py = (rd16(p0 + 2) + (rd16(p1 + 2) - rd16(p0 + 2)) * w) * (1.0f / 4000); o->pz = (rd16(p0 + 4) + (rd16(p1 + 4) - rd16(p0 + 4)) * w) * (1.0f / 4000);

diff --git a/src/game/anim3d.h b/src/game/anim3d.h
@@ -6,7 +6,7 @@
 #include "../render/kkmath.h"
 #define A3_MAXCLIPS 12
 typedef struct { char name[16]; int nf, loop; float dur; uint8_t *data; } A3Clip;   /* data: nf frames x nv corners x 10 bytes (position 3 x int16 / 4000 m, normal 3 x int8 / 127) */
-typedef struct { int ok, nv, nt, nc; float *uv; uint32_t *idx; A3Clip clip[A3_MAXCLIPS]; Texture *tex; Mesh *mesh; Vertex *vb; } Anim3D;
+typedef struct { int ok, nv, nt, nc; float *uv; uint32_t *idx; A3Clip clip[A3_MAXCLIPS]; Texture *tex; Mesh *mesh; Vertex *vb; int last_c, filled; float last_t; } Anim3D;
 int anim3d_load(Anim3D *a, const char *name);
 int anim3d_clip(const Anim3D *a, const char *name);   /* -1 if missing */
 /* poses it 't' seconds into clip c (looping clips wrap, the others hold their last frame) and draws it at 'base' */
